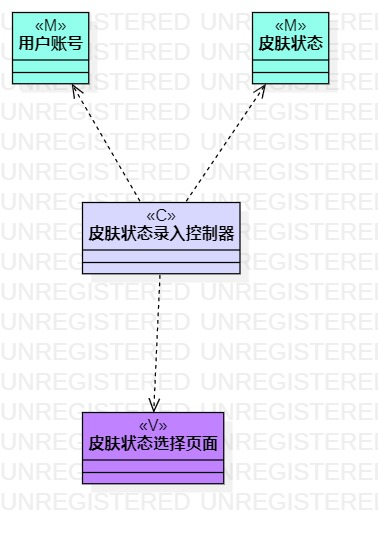
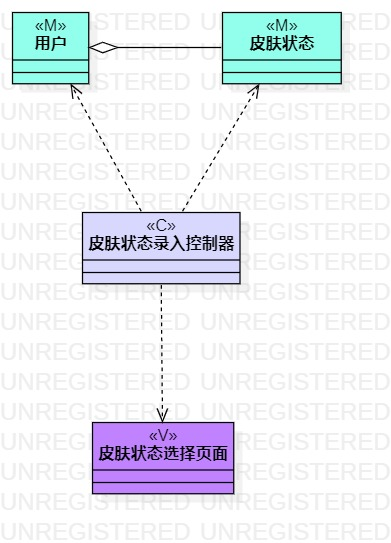
#4 #5 #563 实验四五：类建模

diff --git a/students/1714080902421/lab4.md b/students/1714080902421/lab4.md
@@ -54,11 +54,17 @@
 
 5.将用例规约中存在的类提取出来画为类图
 
-  * a.录入皮肤状态——M（用户账号 皮肤状态） V（皮肤状态选择页面） C（皮肤状态录入控制器）
+  * a.录入皮肤状态——M（用户 皮肤状态） V（皮肤状态选择页面） C（皮肤状态录入控制器）
   
-  * b.查询护肤品详情——M（护肤品编号 护肤品名称 护肤品成分 护肤品详细信息） V（护肤品信息显示页面） C（查询护肤品详情控制器）
+  * b.查询护肤品详情——M（护肤品） V（护肤品信息显示页面） C（查询护肤品详情控制器）
+
+     护肤品类中包含护肤品编号、护肤品名称、护肤品类型、护肤品成分、护肤品功效这五种信息
+    
+    查询护肤品详情只是一个简单的搜索功能，不需要登录只需要输入自己想搜索的化妆品的名称即可
   
-  * c.查询护肤方案——M（护肤品名称 护肤品类型 护肤方案） V（护肤品类型选择页面 护肤方案显示页面） C（查询护肤方案控制器）
+  * c.查询护肤方案——M（护肤品 护肤方案 用户 皮肤状态） V（护肤方案显示页面） C（查询护肤方案控制器）
+
+    护肤方案针对不同用户的皮肤状态提供不同的护肤方案，护肤方案中包含用户、皮肤状态、护肤品三类信息。
 
 ## 四、实验结果
 
@@ -169,4 +175,6 @@ UML 中类与类, 类与接口, 接口与接口这间的关系有: 泛化(ge
 3.依赖（dependency）:物体与物体之间产生的依赖关系，就是一个类A使用到了另一个类B，而这种使用关系是具有偶然性的、临时性的、非常弱的，但是B类的变化会影响到A，例如：人依赖空气和水
 
 4.关系所表现的强弱程度依次为：组合>聚合>关联>依赖
+
+5.本次实验不仅学习到了类建模的方法，还学习到了类与类之间的关系，初次进行类建模时错误将信息当成了类，后面在老师提醒下对类建模图进行了修改。
 
